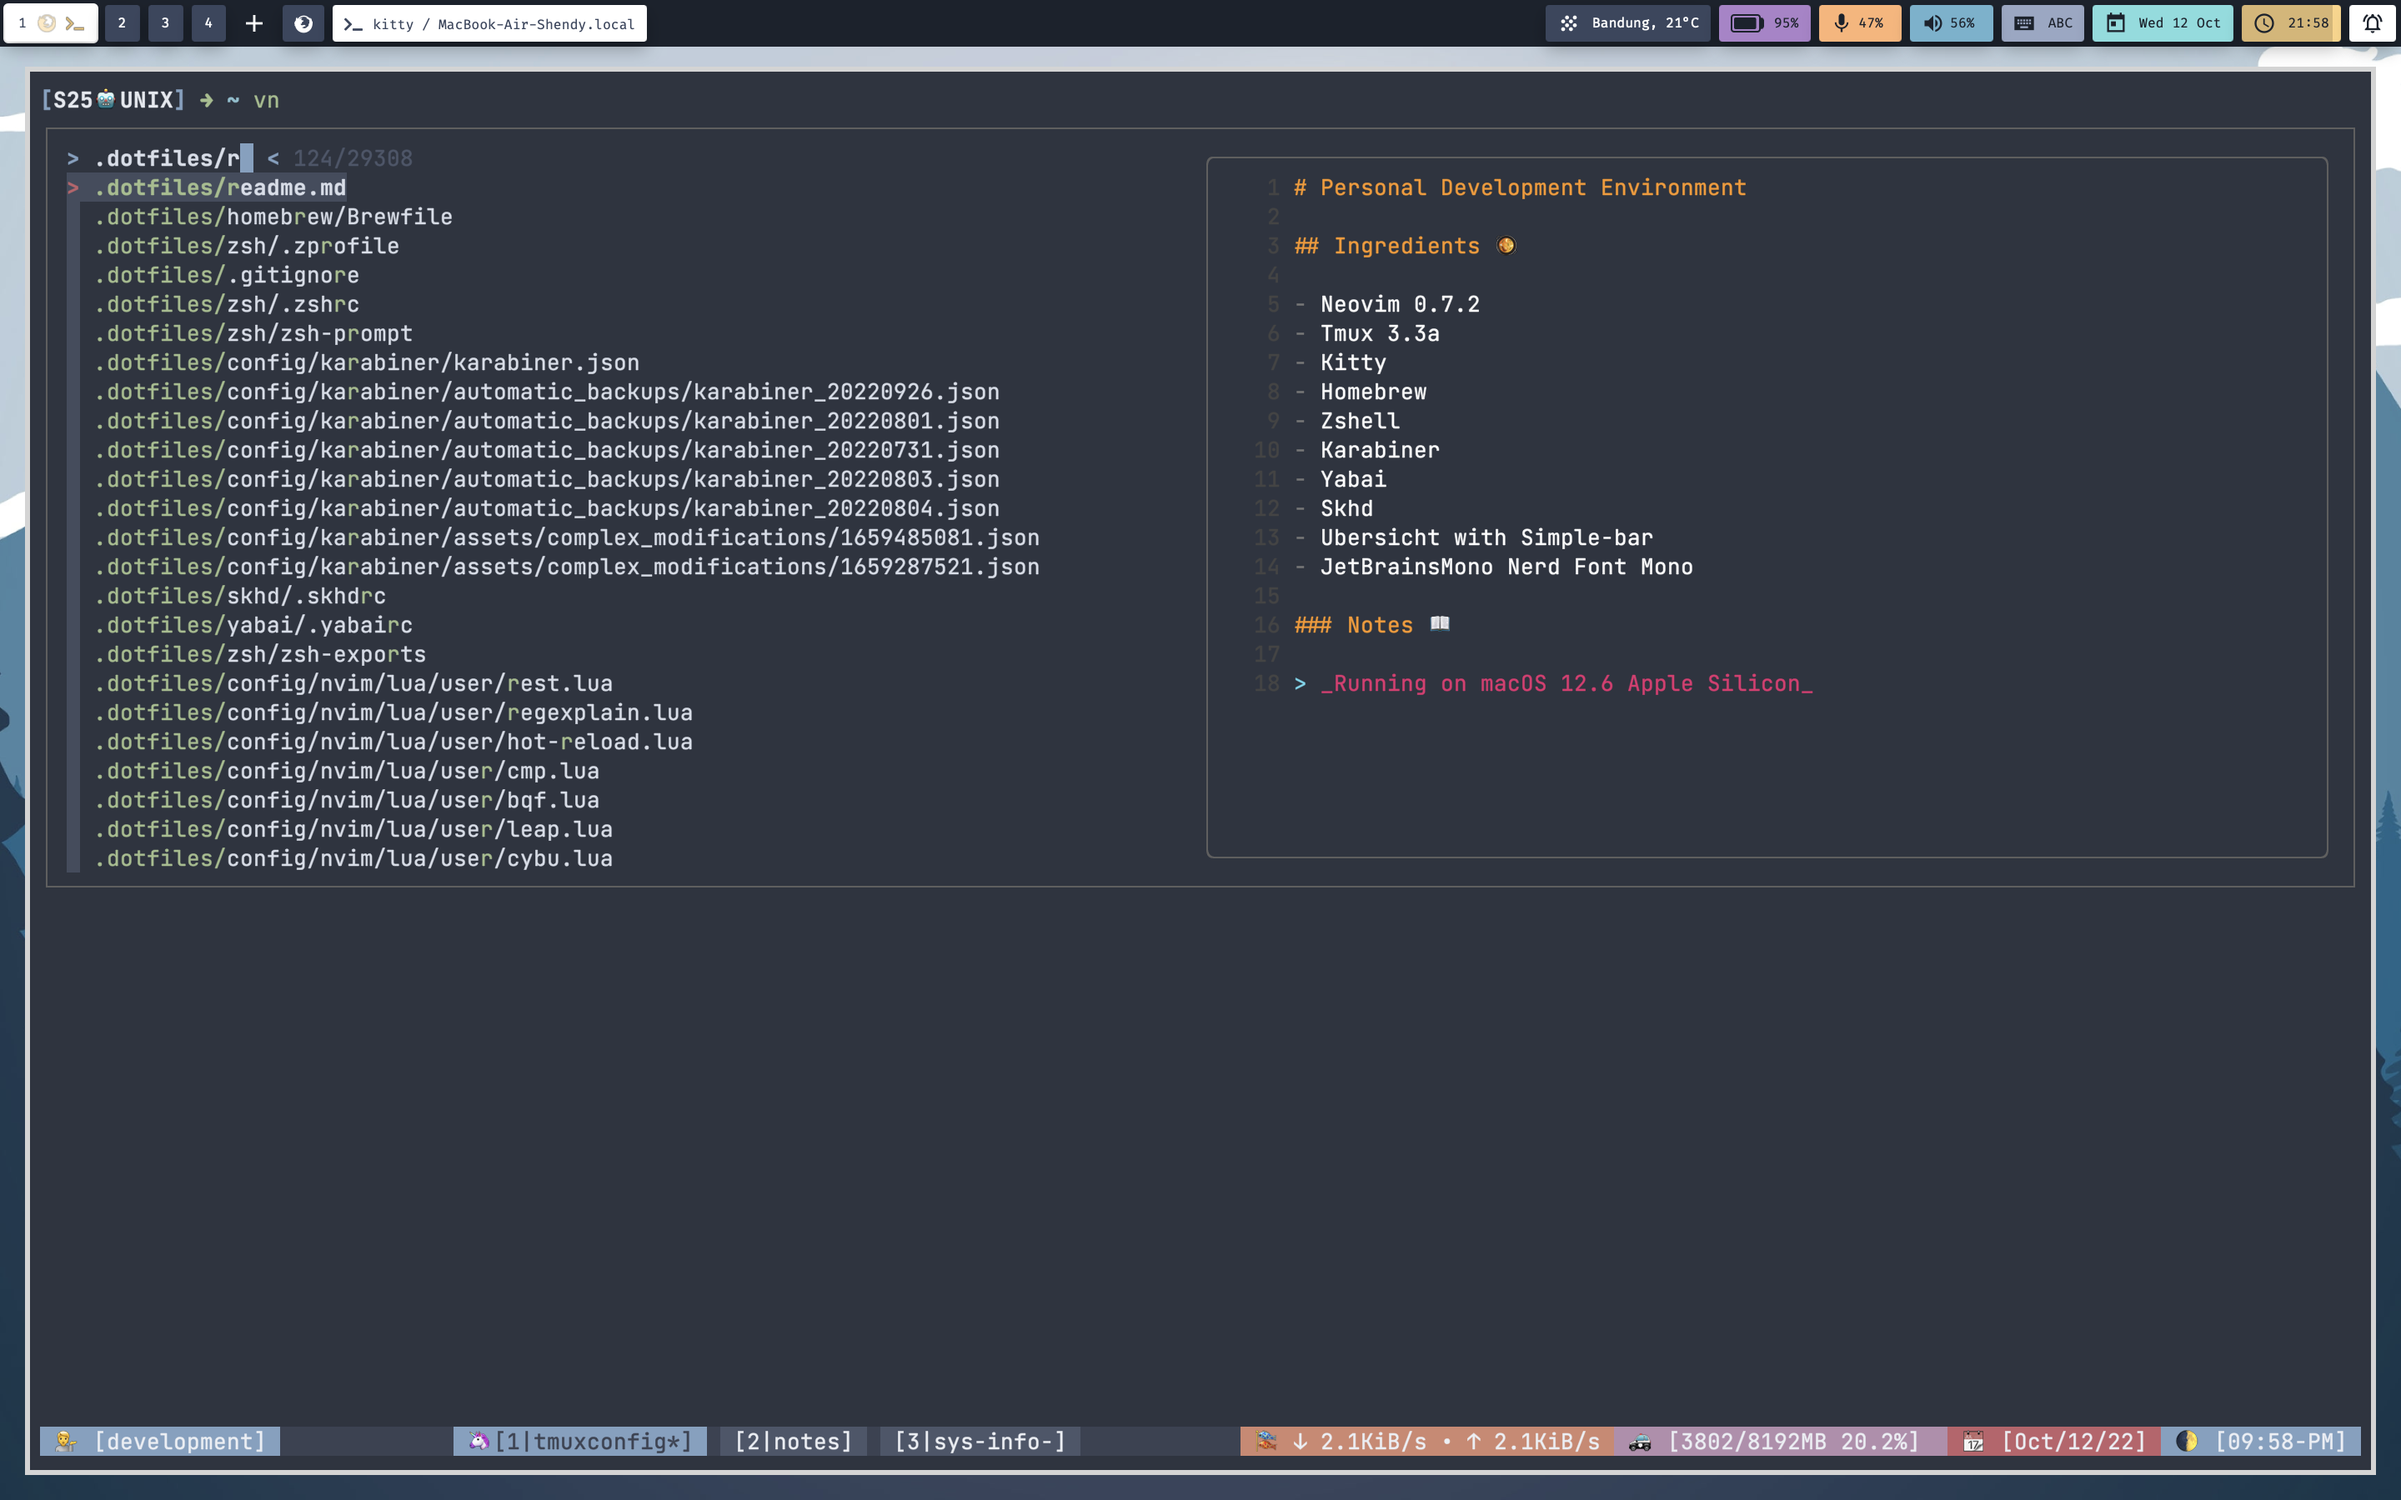
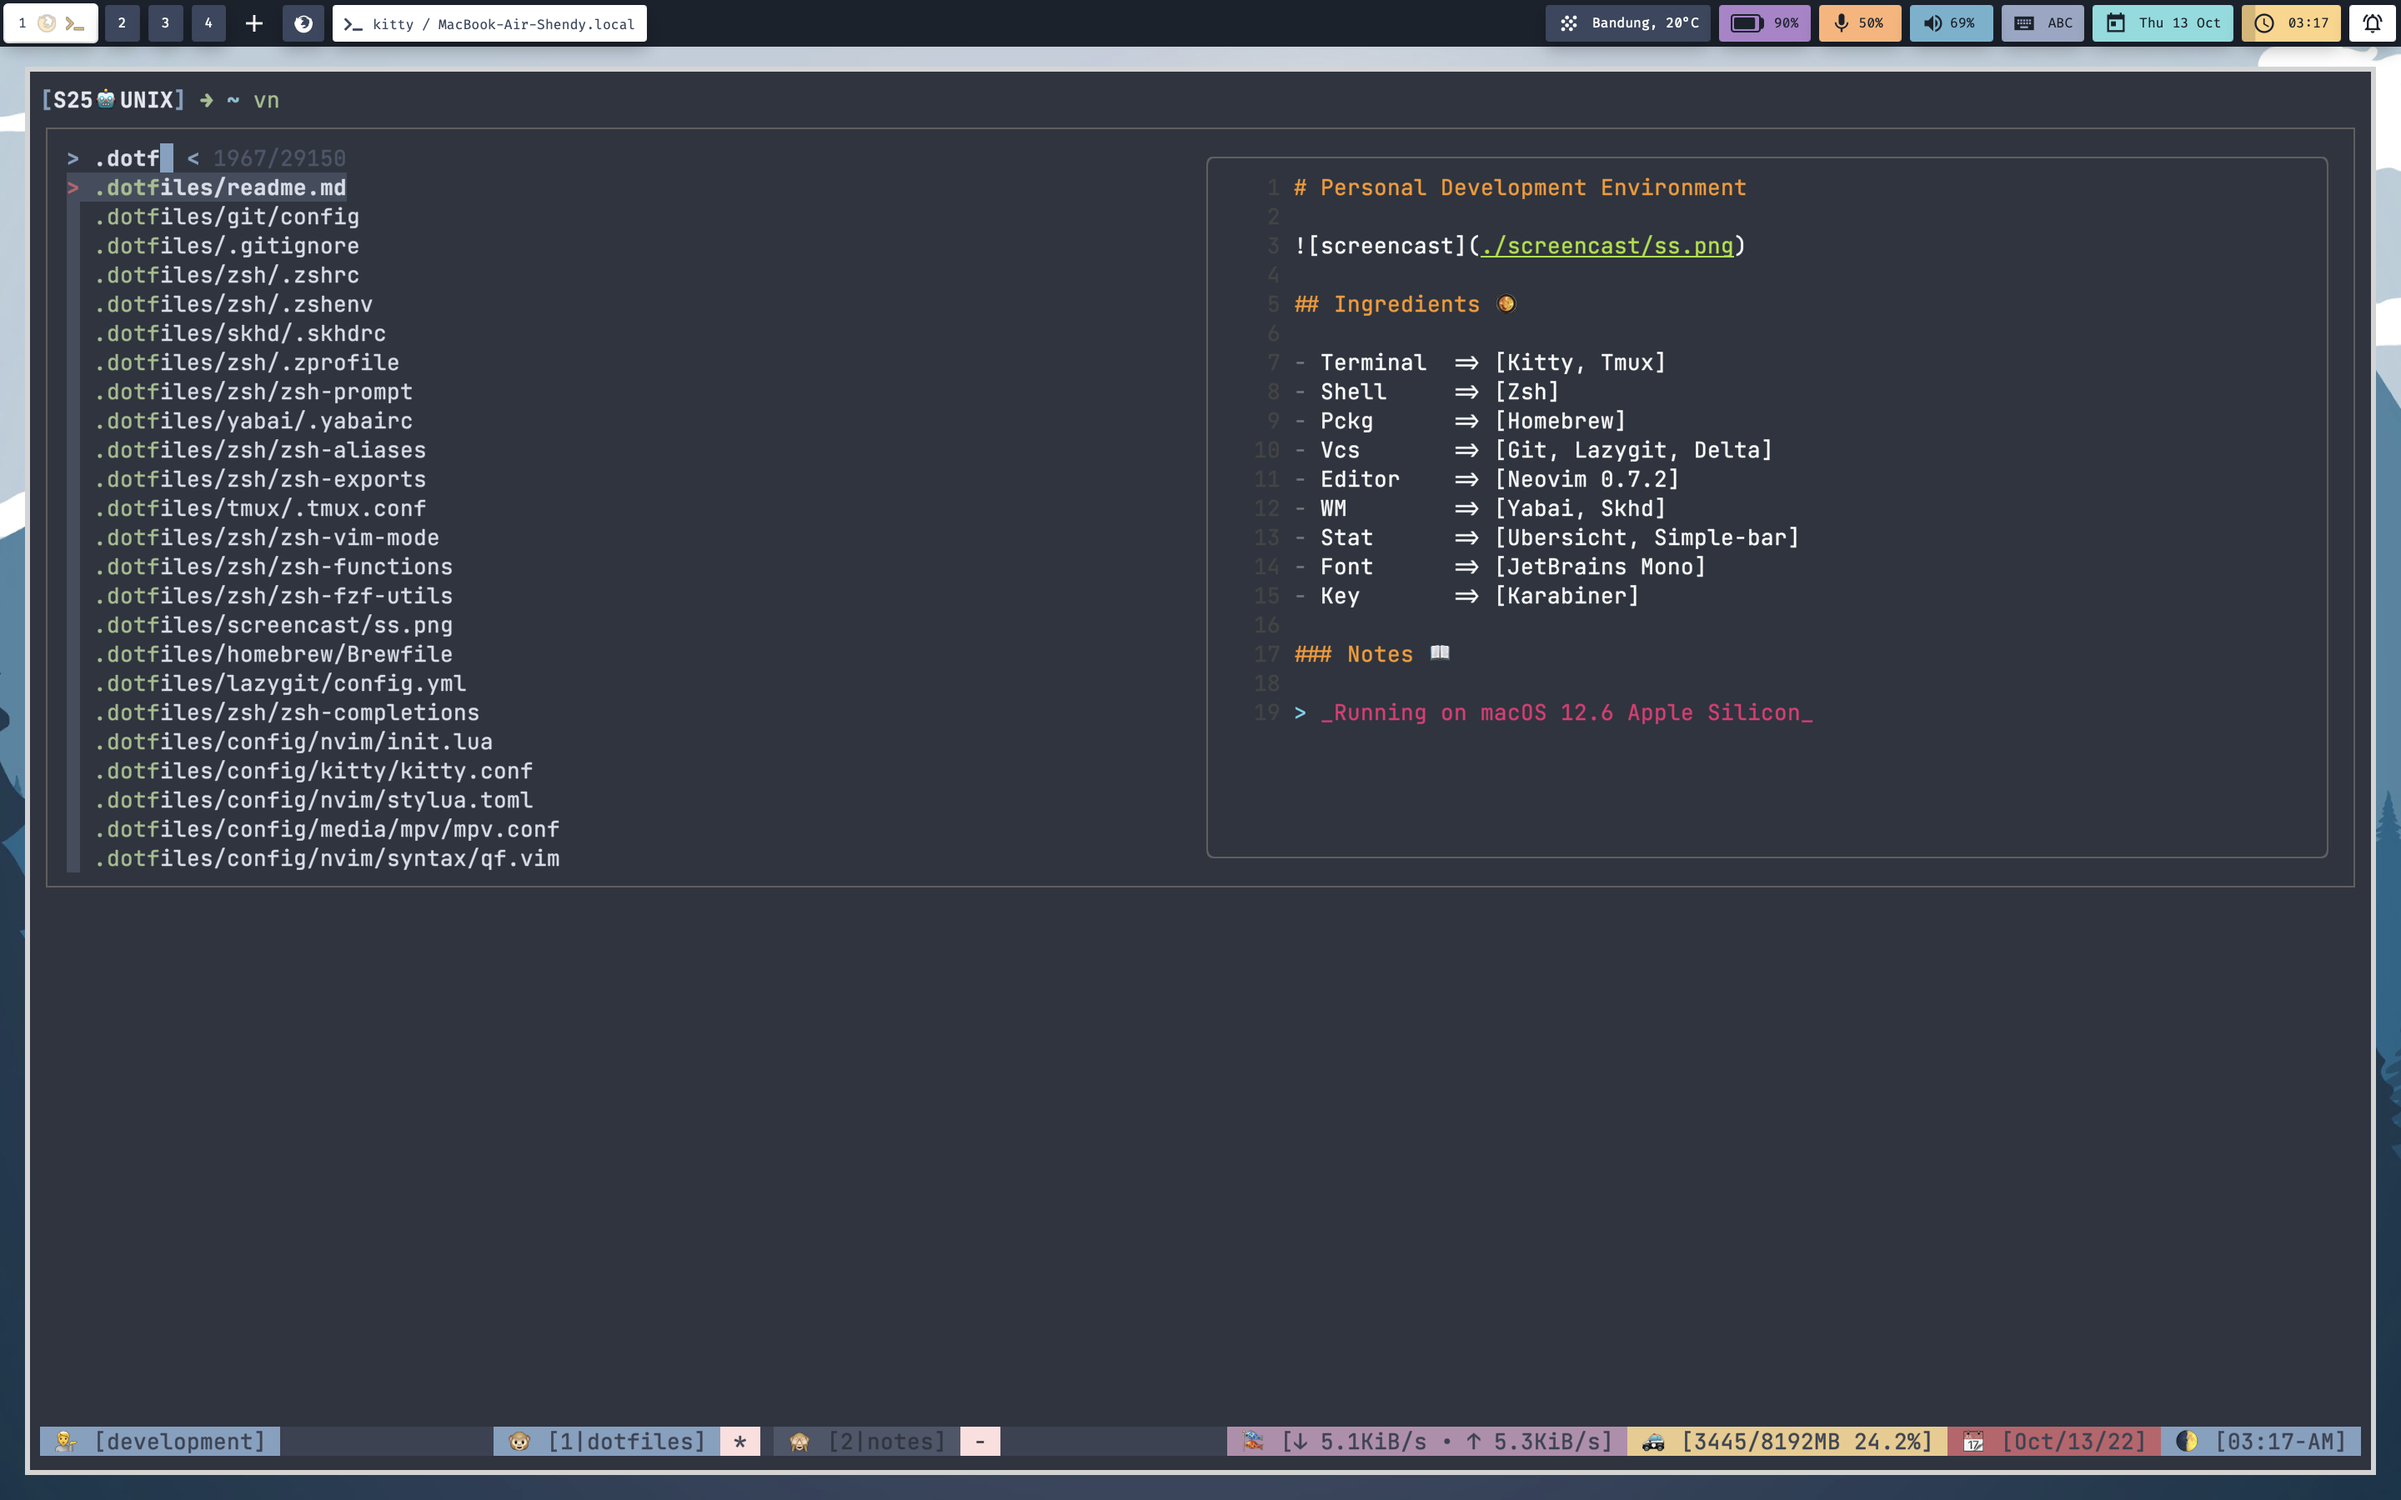
update

diff --git a/readme.md b/readme.md
@@ -4,17 +4,15 @@
 
 ## Ingredients 🥘
 
-- Neovim 0.7.2
-- Tmux 3.3a
-- Homebrew
-- Zshell
-- Kitty
-- Fzf
-- Karabiner
-- Yabai
-- Skhd
-- Ubersicht with Simple-bar
-- JetBrainsMono Nerd Font Mono
+- Terminal  => [Kitty, Tmux]
+- Shell     => [Zsh]
+- Pckg      => [Homebrew]
+- Vcs       => [Git, Lazygit, Delta]
+- Editor    => [Neovim 0.7.2]
+- WM        => [Yabai, Skhd]
+- Stat      => [Ubersicht, Simple-bar]
+- Font      => [JetBrains Mono]
+- Key       => [Karabiner]
 
 ### Notes 📖
 
